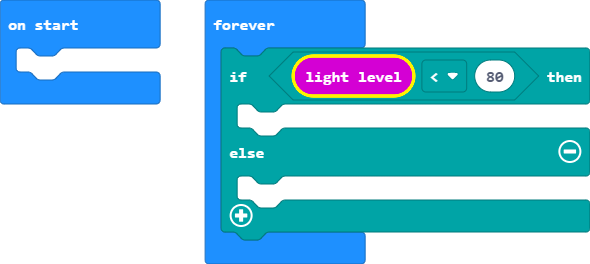
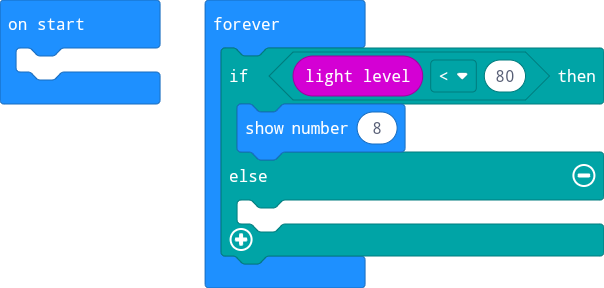
Update main.blocks, main.ts

Changed region(s): [[0.3356, 0.0, 1.0, 1.0], [0.0, 0.0, 0.2746, 0.4242], [0.0, 0.0606, 0.1525, 0.1212]]

diff --git a/main.ts b/main.ts
@@ -1,6 +1,6 @@
 basic.forever(function () {
     if (input.lightLevel() < 80) {
-    	
+        basic.showNumber(8)
     } else {
     	
     }
